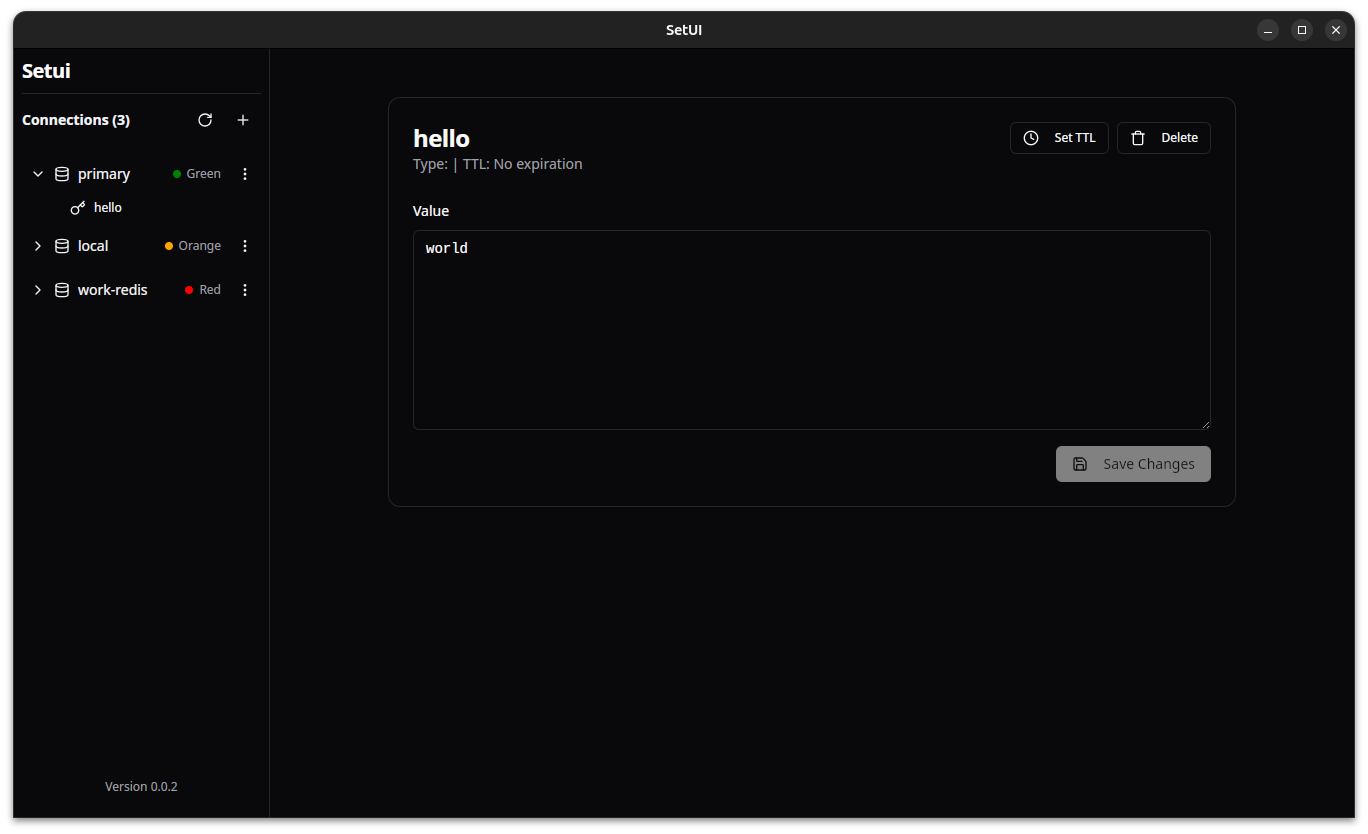
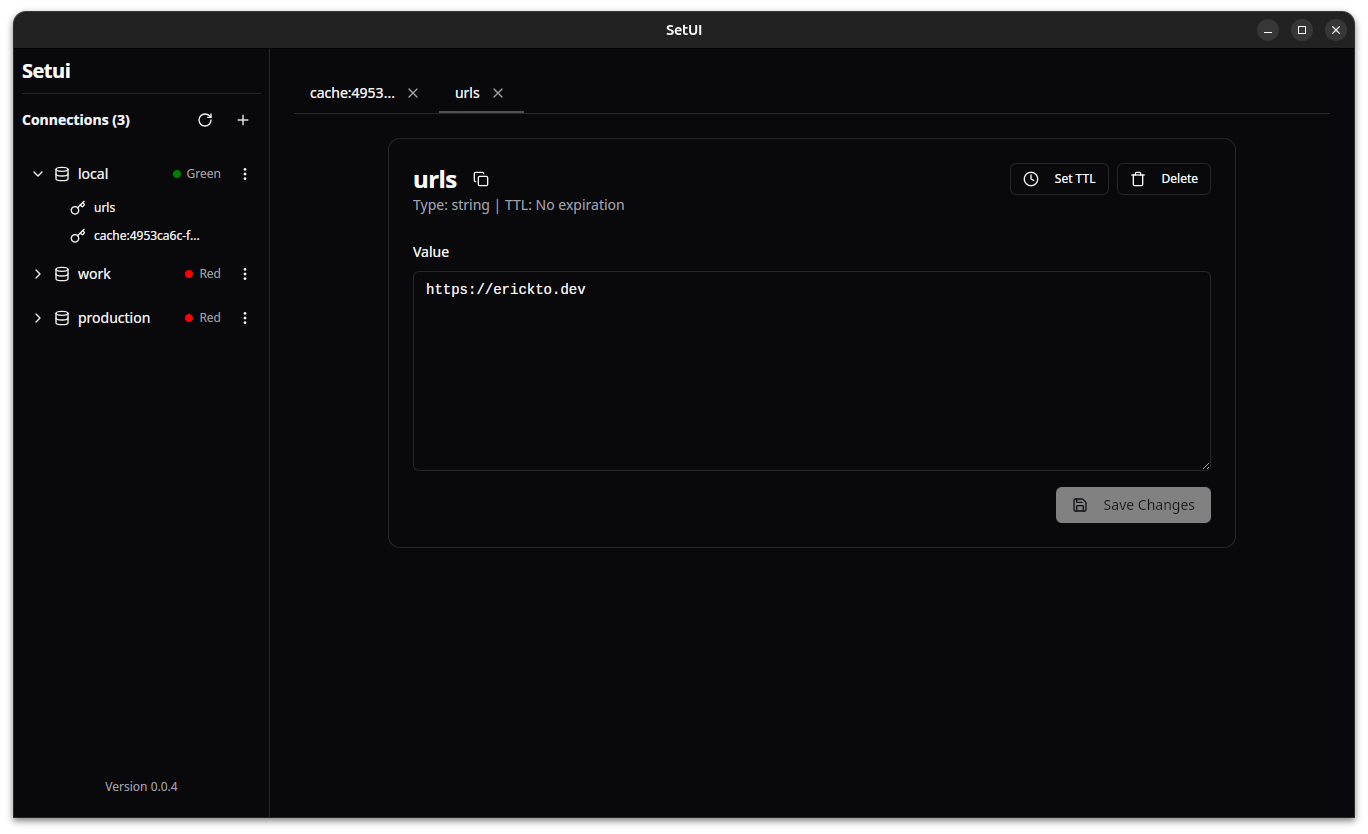
feat: dynamics tabs with many alters

diff --git a/src/features/tabs/tab-layout.tsx b/src/features/tabs/tab-layout.tsx
@@ -1,0 +1,117 @@
+import React, { useEffect } from "react";
+import { X } from "lucide-react";
+import { cn, truncateText } from "@/lib/utils";
+import { useNavigate, useParams } from "react-router-dom";
+import { Button } from "@/components/ui/button";
+import { useTabStore } from "@/store/tabs";
+import KeyView from "@/features/keys/key-view";
+
+export function TabLayout() {
+  const navigate = useNavigate();
+  const params = useParams();
+  const { tabs, activeTabId, addTab, removeTab, setActiveTab } = useTabStore();
+
+  useEffect(() => {
+    const { connectionId, keyName } = params;
+    if (connectionId && keyName) {
+      addTab({
+        connectionId,
+        keyName: decodeURIComponent(keyName),
+        label: decodeURIComponent(keyName),
+      });
+    }
+  }, [params.connectionId, params.keyName, addTab]);
+
+  const handleTabClick = (tab: {
+    id: string;
+    connectionId: string;
+    keyName: string;
+  }) => {
+    setActiveTab(tab.id);
+    navigate(
+      `/connection/${tab.connectionId}/key/${encodeURIComponent(tab.keyName)}`
+    );
+  };
+
+  const handleTabClose = async (tabId: string, e: React.MouseEvent) => {
+    e.preventDefault();
+    e.stopPropagation();
+
+    const newActiveTabId = removeTab(tabId);
+
+    if (newActiveTabId) {
+      const nextTab = tabs.find((t) => t.id === newActiveTabId);
+      if (nextTab) {
+        navigate(
+          `/connection/${nextTab.connectionId}/key/${encodeURIComponent(
+            nextTab.keyName
+          )}`,
+          { replace: true }
+        );
+      }
+    } else {
+      navigate("/", { replace: true });
+    }
+  };
+
+  return (
+    <div className="flex flex-col h-full">
+      {tabs.length > 0 && (
+        <div className="border-b border-border bg-background">
+          <div className="flex items-center">
+            {tabs.map((tab) => (
+              <Button
+                key={tab.id}
+                variant="ghost"
+                className={cn(
+                  "relative h-10 px-4 py-2 text-sm rounded-none border-border",
+                  "hover:bg-muted/30 transition-colors duration-150",
+                  "flex items-center gap-2",
+                  activeTabId === tab.id && [
+                    "after:absolute after:bottom-0 after:left-0 after:right-0 after:h-0.5 after:bg-foreground/30",
+                  ]
+                )}
+                onClick={() => handleTabClick(tab)}
+              >
+                <span className="truncate max-w-[200px]">
+                  {truncateText(tab.label)}
+                </span>
+                <button
+                  onClick={(e) => handleTabClose(tab.id, e)}
+                  className={cn(
+                    "p-0.5 rounded-sm hover:bg-muted/50 transition-colors duration-150",
+                    "flex items-center justify-center"
+                  )}
+                >
+                  <X className="h-4 w-4 text-muted-foreground hover:text-foreground transition-colors duration-150" />
+                </button>
+              </Button>
+            ))}
+          </div>
+        </div>
+      )}
+
+      <div className="flex-1 overflow-auto">
+        {activeTabId ? (
+          <div className="h-full">
+            {tabs.map((tab) => (
+              <div
+                key={tab.id}
+                className={cn(
+                  "h-full",
+                  activeTabId === tab.id ? "block" : "hidden"
+                )}
+              >
+                <KeyView />
+              </div>
+            ))}
+          </div>
+        ) : (
+          <div className="flex items-center justify-center h-full text-muted-foreground">
+            Select a key to view its content
+          </div>
+        )}
+      </div>
+    </div>
+  );
+}

diff --git a/src/features/keys/key-view.tsx b/src/features/keys/key-view.tsx
@@ -12,7 +12,7 @@ import { Button } from "@/components/ui/button";
 import { Input } from "@/components/ui/input";
 import { Textarea } from "@/components/ui/textarea";
 import { Label } from "@/components/ui/label";
-import { Loader2, Save, Trash, Clock } from "lucide-react";
+import { Loader2, Save, Trash, Clock, Copy, Check } from "lucide-react";
 import {
   Dialog,
   DialogContent,
@@ -22,6 +22,11 @@ import {
   DialogTitle,
   DialogTrigger,
 } from "@/components/ui/dialog";
+import {
+  Tooltip,
+  TooltipContent,
+  TooltipTrigger,
+} from "@/components/ui/tooltip";
 import { toast } from "@/hooks/use-toast";
 
 function KeyView() {
@@ -30,6 +35,7 @@ function KeyView() {
   const [ttlDialogOpen, setTtlDialogOpen] = useState(false);
   const [newTtl, setNewTtl] = useState("");
   const [editedValue, setEditedValue] = useState("");
+  const [copied, setCopied] = useState(false);
 
   const { selectedKey, getKeyInfo, setKeyValue, deleteKey, setKeyTTL } =
     useConnectionStore();
@@ -39,6 +45,18 @@ function KeyView() {
       loadKeyInfo();
     }
   }, [connectionId, keyName]);
+
+  const handleCopy = async () => {
+    if (keyName) {
+      await navigator.clipboard.writeText(keyName);
+      setCopied(true);
+      setTimeout(() => setCopied(false), 2000);
+      toast({
+        title: "Copied!",
+        description: "Key name copied to clipboard",
+      });
+    }
+  };
 
   const loadKeyInfo = async () => {
     try {
@@ -127,15 +145,38 @@ function KeyView() {
     );
   }
 
+  console.log(selectedKey);
+
   return (
     <div className="p-6 max-w-4xl mx-auto space-y-6">
       <Card>
         <CardHeader>
           <div className="flex justify-between items-start select-none">
             <div>
-              <CardTitle className="text-2xl">{keyName}</CardTitle>
+              <div className="flex items-center gap-2">
+                <CardTitle className="text-2xl">{keyName}</CardTitle>
+                <Tooltip>
+                  <TooltipTrigger asChild>
+                    <Button
+                      variant="ghost"
+                      size="icon"
+                      className="h-8 w-8"
+                      onClick={handleCopy}
+                    >
+                      {copied ? (
+                        <Check className="h-4 w-4 text-green-500" />
+                      ) : (
+                        <Copy className="h-4 w-4" />
+                      )}
+                    </Button>
+                  </TooltipTrigger>
+                  <TooltipContent>
+                    <p>Copy key name</p>
+                  </TooltipContent>
+                </Tooltip>
+              </div>
               <CardDescription>
-                Type: {selectedKey.type} | TTL:{" "}
+                Type: {selectedKey.data_type} | TTL:{" "}
                 {selectedKey.ttl === -1
                   ? "No expiration"
                   : `${selectedKey.ttl}s`}

diff --git a/src/store/tabs.ts b/src/store/tabs.ts
@@ -1,0 +1,78 @@
+import { create } from "zustand";
+import { devtools } from "zustand/middleware";
+
+interface Tab {
+  id: string;
+  connectionId: string;
+  keyName: string;
+  label: string;
+}
+
+interface TabState {
+  tabs: Tab[];
+  activeTabId: string | null;
+  addTab: (tab: Omit<Tab, "id">) => void;
+  removeTab: (tabId: string) => string | null;
+  setActiveTab: (tabId: string) => void;
+  getTabById: (tabId: string) => Tab | undefined;
+}
+
+export const useTabStore = create<TabState>()(
+  devtools(
+    (set, get) => ({
+      tabs: [],
+      activeTabId: null,
+
+      addTab: (newTab) => {
+        const tabId = `${newTab.connectionId}-${newTab.keyName}`;
+
+        set((state) => {
+          if (state.tabs.some((tab) => tab.id === tabId)) {
+            return { ...state, activeTabId: tabId };
+          }
+
+          return {
+            tabs: [...state.tabs, { ...newTab, id: tabId }],
+            activeTabId: tabId,
+          };
+        });
+      },
+
+      removeTab: (tabId: string) => {
+        const currentState = get();
+        const currentIndex = currentState.tabs.findIndex(
+          (tab) => tab.id === tabId
+        );
+
+        if (currentIndex === -1) return currentState.activeTabId;
+
+        const newTabs = currentState.tabs.filter((tab) => tab.id !== tabId);
+
+        let newActiveTabId: string | null = null;
+
+        if (currentState.activeTabId === tabId) {
+          const nextTab = newTabs[currentIndex] || newTabs[currentIndex - 1];
+          newActiveTabId = nextTab?.id || null;
+        } else {
+          newActiveTabId = currentState.activeTabId;
+        }
+
+        set({
+          tabs: newTabs,
+          activeTabId: newActiveTabId,
+        });
+
+        return newActiveTabId;
+      },
+
+      setActiveTab: (tabId) => {
+        set({ activeTabId: tabId });
+      },
+
+      getTabById: (tabId) => {
+        return get().tabs.find((tab) => tab.id === tabId);
+      },
+    }),
+    { name: "tabs-store" }
+  )
+);

diff --git a/src/routes/index.tsx b/src/routes/index.tsx
@@ -1,7 +1,7 @@
 import { createBrowserRouter } from "react-router-dom";
 import Layout from "@/components/layout";
 import { HomePage } from "@/pages/home";
-import KeyView from "@/features/keys/key-view";
+import { TabLayout } from "@/features/tabs/tab-layout";
 
 export const router = createBrowserRouter([
   {
@@ -14,7 +14,7 @@ export const router = createBrowserRouter([
       },
       {
         path: "connection/:connectionId/key/:keyName",
-        element: <KeyView />,
+        element: <TabLayout />,
       },
     ],
   },

diff --git a/src/features/connection/item-connection.tsx b/src/features/connection/item-connection.tsx
@@ -142,7 +142,7 @@ export function ConnectionItem({ connection }: { connection: Connection }) {
                 onClick={() => handleKeyClick(key)}
               >
                 <Key className="h-3 w-3" />
-                <span>{key}</span>
+                <span>{truncateText(key, 16)}</span>
               </Button>
             ))
           )}

diff --git a/src/store/connection.ts b/src/store/connection.ts
@@ -13,7 +13,7 @@ export interface RedisKeyInfo {
   key: string;
   value: string;
   ttl: number;
-  type: string;
+  data_type: string;
 }
 
 interface ConnectionState {

diff --git a/README.md b/README.md
@@ -2,9 +2,9 @@
 
 A modern, fast, and user-friendly Redis GUI client built with Tauri, React, and Rust.
 
+![Key View](docs/screenshot-03.png)
 ![Home Screen](docs/screenshot-02.png)
 ![Edit Connection](docs/screenshot-01.png)
-![Key View](docs/screenshot-03.png)
 
 ## Features
 
